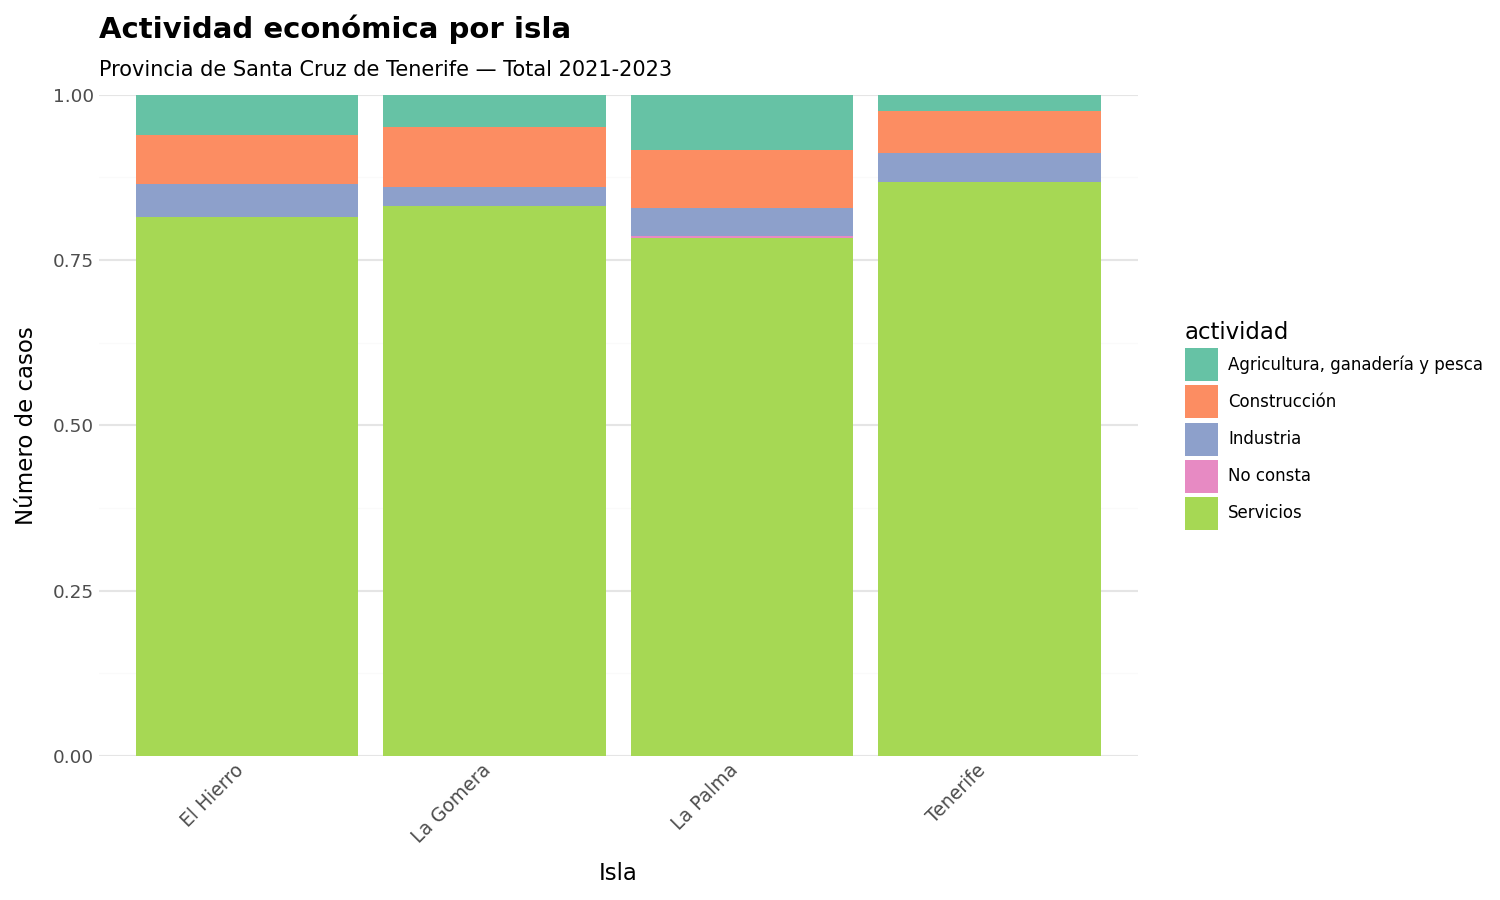
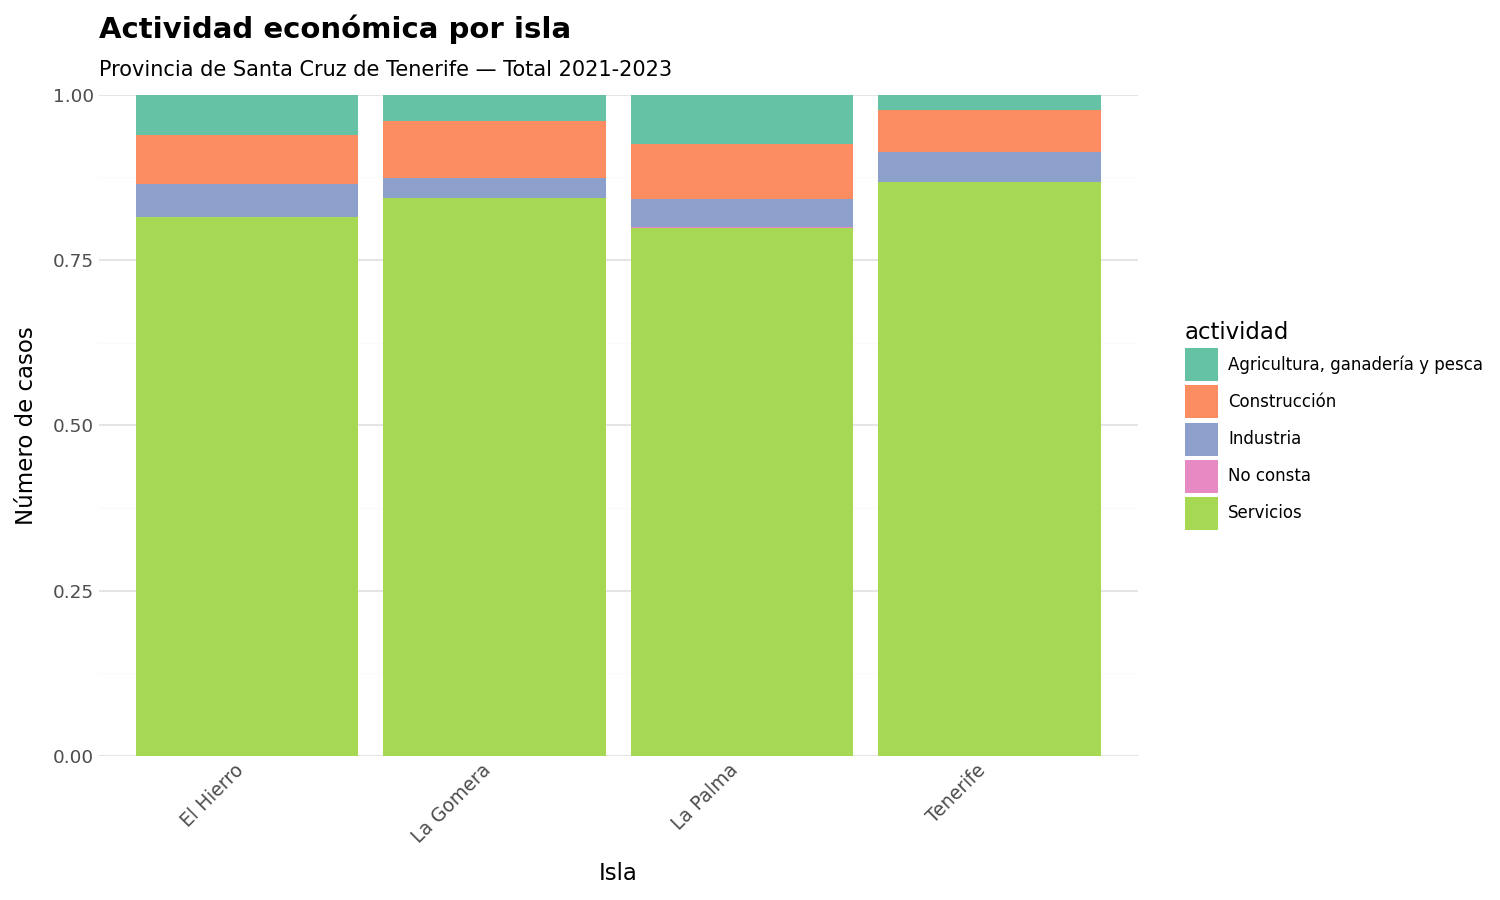
fixed missing names

Changed region(s): [[0.2453, 0.1867, 0.5827, 0.28], [0.4293, 0.1556, 0.5827, 0.1867], [0.2453, 0.1244, 0.3987, 0.1556]]

diff --git a/proyecto/src/common_data.py b/proyecto/src/common_data.py
@@ -50,6 +50,7 @@ MUNICIPIO_ISLA = {
     'Los Realejos': 'Tenerife',
     'Los Silos': 'Tenerife',
     'Puerto de La Cruz': 'Tenerife',
+    'Puerto de la Cruz': 'Tenerife',
     'San Cristóbal de La Laguna': 'Tenerife',
     'San Juan de la Rambla': 'Tenerife',
     'San Miguel de Abona': 'Tenerife',
@@ -70,6 +71,7 @@ MUNICIPIO_ISLA = {
     'Breña Alta': 'La Palma',
     'Breña Baja': 'La Palma',
     'Fuencaliente de La Palma': 'La Palma',
+    'Fuencaliente de la Palma': 'La Palma',
     'Garafía': 'La Palma',
     'Los Llanos de Aridane': 'La Palma',
     'El Paso': 'La Palma',
@@ -77,6 +79,7 @@ MUNICIPIO_ISLA = {
     'Puntallana': 'La Palma',
     'San Andrés y Sauces': 'La Palma',
     'Santa Cruz de La Palma': 'La Palma',
+    'Santa Cruz de la Palma': 'La Palma', 
     'Tijarafe': 'La Palma',
     'Villa de Mazo': 'La Palma',
     'Tazacorte': 'La Palma',
@@ -89,6 +92,7 @@ MUNICIPIO_ISLA = {
     'Alajeró': 'La Gomera',
     'Hermigua': 'La Gomera',
     'San Sebastián de La Gomera': 'La Gomera',
+    'San Sebastián de la Gomera': 'La Gomera',
     'Valle Gran Rey': 'La Gomera',
     'Vallehermoso': 'La Gomera',
 

diff --git a/proyecto/src/graphics.py b/proyecto/src/graphics.py
@@ -136,6 +136,13 @@ def grafico_ocupacion_por_isla(ocupacion_sc_clean: pd.DataFrame) -> ggplot:
 def grafico_ocupacion_municipios_grid(ocupacion_sc_clean: pd.DataFrame) -> None:
     df = ocupacion_sc_clean.copy()
     df["isla"] = df["municipio"].map(MUNICIPIO_ISLA).fillna("Tenerife")
+    print('===========================================')
+    municipios_ocupacion = set(df["municipio"].unique())
+    municipios_mapeados_palma = {m for m, isla in MUNICIPIO_ISLA.items() if isla == "La Palma"}
+    print("Faltan en MUNICIPIO_ISLA:", municipios_ocupacion - set(MUNICIPIO_ISLA.keys()))
+    print("Mapeados como La Palma:", municipios_mapeados_palma)
+    print('===========================================')
+
     graficos_islas = []
     for isla in sorted(df["isla"].unique()):
         df_isla = (
